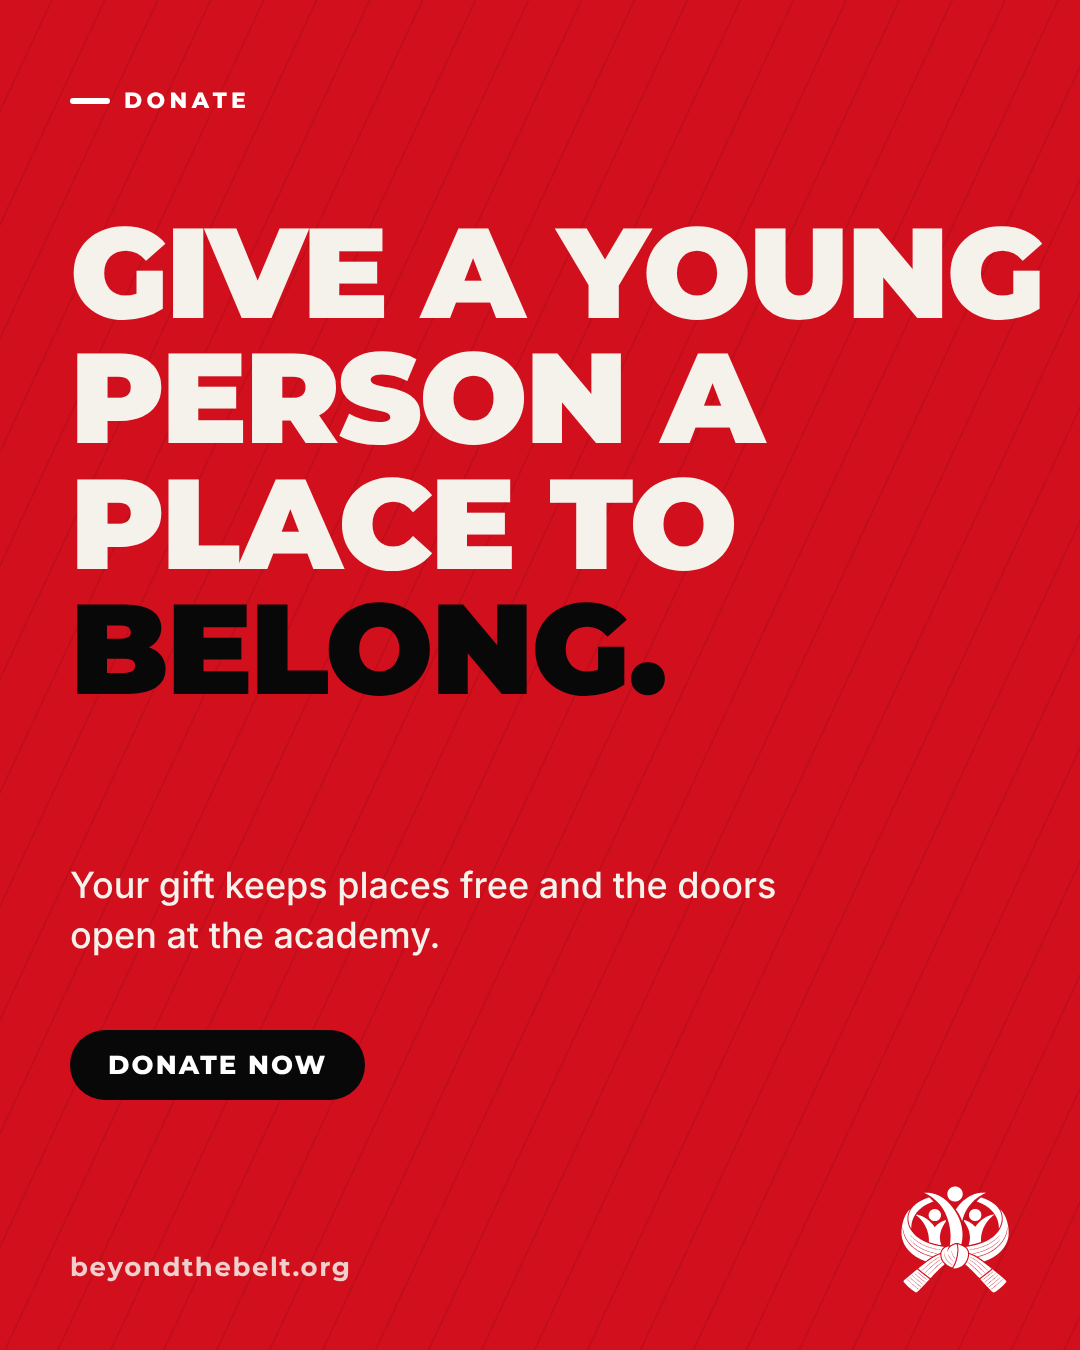
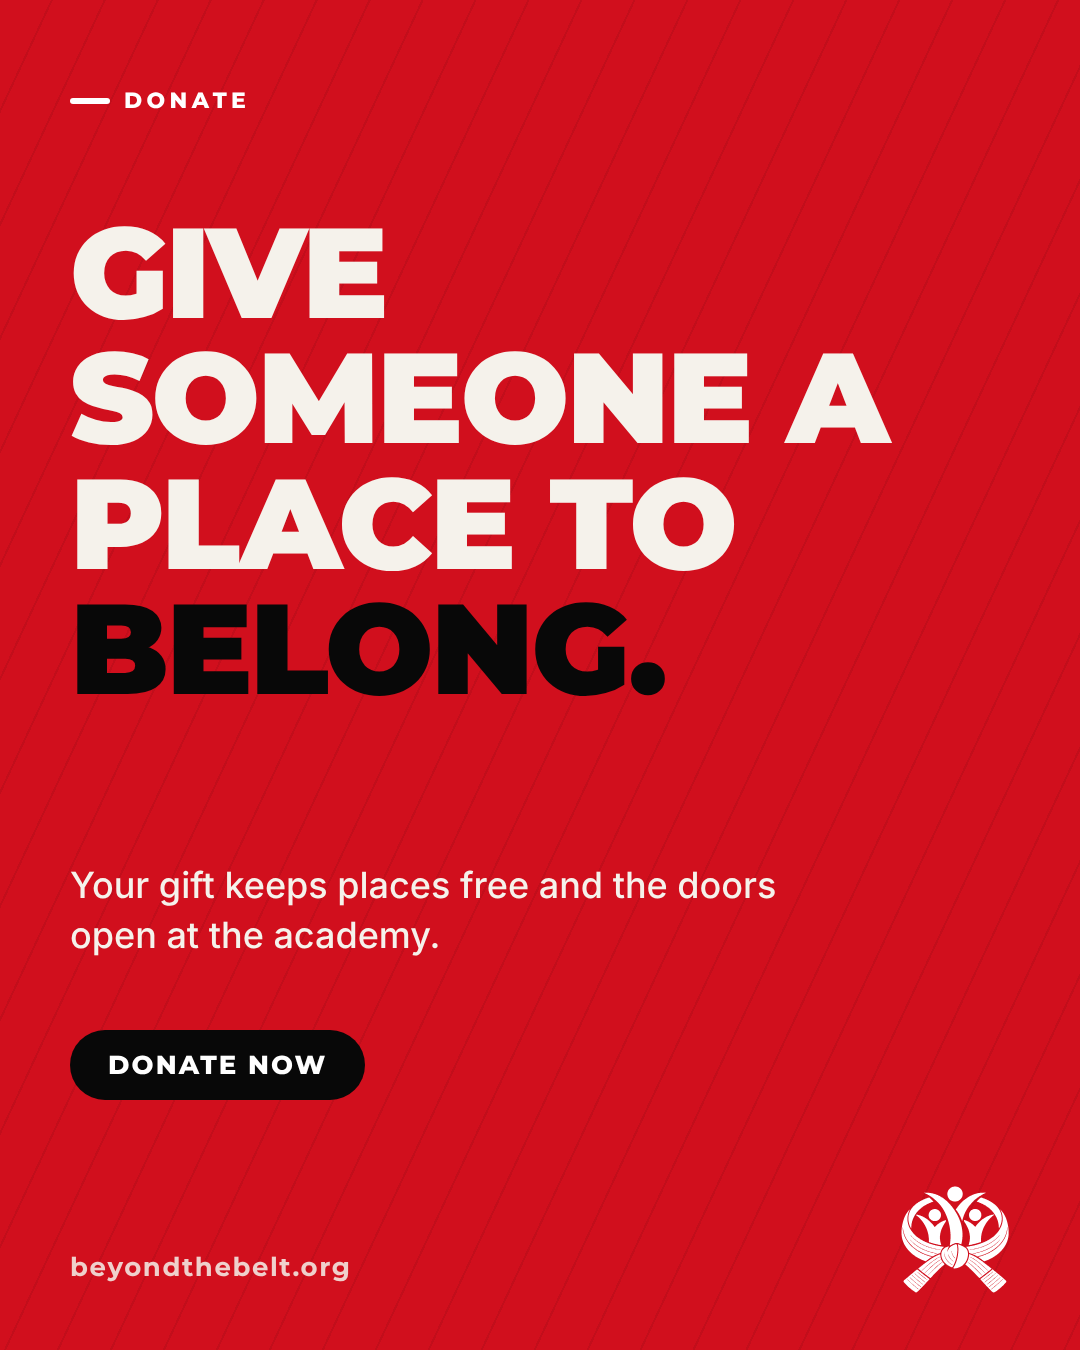
Make copy and graphics inclusive of all ages and backgrounds
Claude-Session: https://claude.ai/code/session_01BxUCDy4vFvZAv95Lyd49Mm

Changed region(s): [[0.0611, 0.1556, 0.9778, 0.3422]]

diff --git a/index.html b/index.html
@@ -4,7 +4,7 @@
   <meta charset="utf-8">
   <meta name="viewport" content="width=device-width, initial-scale=1">
   <title>Beyond the Belt | A charity built on the mats</title>
-  <meta name="description" content="Beyond the Belt is a charity set up by Paul Busby and members of RGA Academy in Marlow, using martial arts training, mentoring and community to build confidence and resilience in young people.">
+  <meta name="description" content="Beyond the Belt is a charity set up by Paul Busby and members of RGA Academy in Marlow, using martial arts training, mentoring and community to build confidence and resilience in people of all ages and backgrounds.">
   <meta name="theme-color" content="#080808">
   <link rel="canonical" href="https://beyondthebelt.org/">
   <link rel="icon" href="assets/favicon.svg" type="image/svg+xml">
@@ -30,7 +30,7 @@
     "name": "Beyond the Belt",
     "url": "https://beyondthebelt.org/",
     "logo": "https://beyondthebelt.org/assets/apple-touch-icon.png",
-    "description": "A charity set up by Paul Busby and members of RGA Academy in Marlow, using martial arts training, mentoring and community to build confidence and resilience in young people.",
+    "description": "A charity set up by Paul Busby and members of RGA Academy in Marlow, using martial arts training, mentoring and community to build confidence and resilience in people of all ages and backgrounds.",
     "founder": { "@type": "Person", "name": "Paul Busby" },
     "address": { "@type": "PostalAddress", "addressLocality": "Marlow", "addressRegion": "Buckinghamshire", "addressCountry": "GB" }
   }
@@ -65,7 +65,7 @@
         <div>
           <span class="eyebrow">A charity built on the mats</span>
           <h1>Life is bigger <em>than the belt.</em></h1>
-          <p class="lede">Beyond the Belt is a charity set up by Paul Busby and members of RGA Academy in Marlow. We use training, mentoring and a strong community to help young people build confidence, resilience and a sense of belonging, on the mats and far beyond them.</p>
+          <p class="lede">Beyond the Belt is a charity set up by Paul Busby and members of RGA Academy in Marlow. We use training, mentoring and a strong community to help people of every age and background build confidence, resilience and a sense of belonging, on the mats and far beyond them.</p>
           <div class="hero-actions">
             <a class="btn btn-primary" href="#donate">Donate</a>
             <a class="btn btn-ghost" href="#get-involved">Get involved</a>
@@ -89,7 +89,7 @@
         </div>
         <div class="mission-copy">
           <p>Martial arts teach far more than technique. Turning up when it is hard, losing and trying again, trusting a training partner and being trusted back: those lessons stay with you long after the grading.</p>
-          <p>Beyond the Belt exists so that every young person who could benefit from that experience can have it, whatever their circumstances or whether their family can afford the fees.</p>
+          <p>Beyond the Belt exists so that anyone who could benefit from that experience can have it, whatever their age or background and whether or not they can afford the fees.</p>
           <p>Our sessions are led by experienced coaches in the welcoming environment of RGA Academy, where it all started.</p>
         </div>
       </div>
@@ -110,23 +110,23 @@
         <div class="section-head">
           <span class="eyebrow">What we do</span>
           <h2>Training with a purpose</h2>
-          <p>Every programme is built around the same idea: use the discipline and community of martial arts to help young people thrive.</p>
+          <p>Every programme is built around the same idea: use the discipline and community of martial arts to help people of all ages thrive.</p>
         </div>
         <div class="cards">
           <article class="card">
             <div class="num">01</div>
             <h3>Free &amp; supported places</h3>
-            <p>Funded places in regular classes, including kit and gradings, for young people who would otherwise miss out.</p>
+            <p>Funded places in regular classes, including kit and gradings, for children, adults and families who would otherwise miss out.</p>
           </article>
           <article class="card">
             <div class="num">02</div>
             <h3>Confidence &amp; resilience</h3>
-            <p>Mentoring woven into training, helping young people handle pressure, setbacks and big emotions in a healthy way.</p>
+            <p>Mentoring woven into training, helping people of any age handle pressure, setbacks and big emotions in a healthy way.</p>
           </article>
           <article class="card">
             <div class="num">03</div>
             <h3>Workshops &amp; outreach</h3>
-            <p>Taster sessions and anti-bullying and personal-safety workshops for schools, youth groups and community partners.</p>
+            <p>Taster sessions and anti-bullying and personal-safety workshops for schools, workplaces, community groups and charities.</p>
           </article>
           <article class="card">
             <div class="num">04</div>
@@ -142,7 +142,7 @@
         <div class="section-head">
           <span class="eyebrow">The pathway</span>
           <h2>From first class to giving back</h2>
-          <p>Progress is not only measured in stripes. We support each young person along a path that ends with them helping the next one through the door.</p>
+          <p>Progress is not only measured in stripes. We support each person along a path that ends with them helping the next one through the door.</p>
         </div>
         <ol class="steps">
           <li class="step"><div class="bar"></div><h3>Show up</h3><p>A warm welcome, no experience needed and no pressure. The hardest step is walking in.</p></li>
@@ -158,7 +158,7 @@
         <div class="section-head">
           <span class="eyebrow">Get involved</span>
           <h2>Help us go beyond</h2>
-          <p>We are a small charity with big ambitions. However you choose to help, it makes a real difference to the young people we work with.</p>
+          <p>We are a small charity with big ambitions. However you choose to help, it makes a real difference to the people we work with.</p>
         </div>
         <div class="cards">
           <article class="card feature">
@@ -173,15 +173,15 @@
           </article>
           <article class="card">
             <h3>Partner with us</h3>
-            <p>Schools, youth services and local businesses: let's work together to reach more young people.</p>
+            <p>Schools, community groups and local businesses: let's work together to reach more people.</p>
             <a class="btn btn-dark" href="#contact">Start a conversation</a>
           </article>
         </div>
 
         <div class="donate-panel" id="donate">
           <div>
-            <h3>Back the next generation</h3>
-            <p>Your support funds places, equipment and mentoring for young people who need a place to belong.</p>
+            <h3>Back the whole community</h3>
+            <p>Your support funds places, equipment and mentoring for people of all ages who need a place to belong.</p>
           </div>
           <!-- TODO: replace href with the live donation page (JustGiving, Stripe, GoFundMe, etc.) -->
           <a class="btn" href="#contact" data-donate-link>Donate now</a>
@@ -196,7 +196,7 @@
         <div>
           <span class="eyebrow">Our story</span>
           <h2>Born at RGA Academy</h2>
-          <p>Beyond the Belt was set up by Paul Busby and members of RGA Academy in Marlow. They are coaches, students, parents and friends who have seen first-hand what time on the mats can do for a young person.</p>
+          <p>Beyond the Belt was set up by Paul Busby and members of RGA Academy in Marlow. They are coaches, students, parents and friends who have seen first-hand what time on the mats can do for a person of any age.</p>
           <p>The charity lets them take that further, opening the door to people who need it most and backing it with structure and care.</p>
           <p class="pull">Two figures, one belt, and a path that leads well beyond the dojo.</p>
         </div>
@@ -208,7 +208,7 @@
         <div>
           <span class="eyebrow">Contact</span>
           <h2>Say hello</h2>
-          <p>Want to refer a young person, volunteer, fundraise or partner with us? Send us a message and we will come back to you.</p>
+          <p>Want to refer someone, volunteer, fundraise or partner with us? Send us a message and we will come back to you.</p>
           <ul class="contact-list">
             <li><strong>Email</strong><a href="mailto:hello@beyondthebelt.org" data-contact-email>hello@beyondthebelt.org</a></li>
             <li><strong>Based at</strong>RGA Academy, Marlow, Buckinghamshire</li>
@@ -222,7 +222,7 @@
               <option>Make a donation</option>
               <option>Volunteer</option>
               <option>Partner with Beyond the Belt</option>
-              <option>Refer a young person</option>
+              <option>Refer someone</option>
               <option>Something else</option>
             </select>
           </label>

diff --git a/social/build.js b/social/build.js
@@ -94,7 +94,7 @@ add('post-01-welcome-1080x1350', 1080, 1350, 'ink stitch',
   `<h1 class="abs" style="left:70px;top:860px;font-size:112px">Life is bigger<br><em>than the belt.</em></h1>` + foot('dark'));
 add('post-02-donate-1080x1350', 1080, 1350, 'red stitch',
   `<div class="abs" style="left:70px;top:90px"><div class="eyebrow">Donate</div></div>` +
-  `<h1 class="abs" style="left:70px;top:210px;font-size:128px">Give a young person a place to <em>belong.</em></h1>` +
+  `<h1 class="abs" style="left:70px;top:210px;font-size:128px">Give someone a place to <em>belong.</em></h1>` +
   `<p class="abs" style="left:70px;top:860px;width:800px;font-size:36px;line-height:1.4;font-weight:500">Your gift keeps places free and the doors open at the academy.</p>` +
   `<div class="abs" style="left:70px;top:1030px"><span class="pill">Donate now</span></div>` + foot());
 add('post-03-values-1080x1350', 1080, 1350, 'ink stitch',
@@ -103,7 +103,7 @@ add('post-03-values-1080x1350', 1080, 1350, 'ink stitch',
 add('post-04-volunteer-1080x1350', 1080, 1350, 'bone stitch',
   `<div class="abs" style="left:70px;top:90px"><div class="eyebrow" style="color:var(--deep)">Get involved</div></div>` +
   `<h1 class="abs" style="left:70px;top:210px;font-size:150px">We need you <em style="color:var(--deep)">on the mats.</em></h1>` +
-  `<p class="abs" style="left:70px;top:800px;width:880px;font-size:38px;line-height:1.4;font-weight:500">Coaches, helpers, fundraisers, creatives. Bring your skills and help us reach more young people.</p>` +
+  `<p class="abs" style="left:70px;top:800px;width:880px;font-size:38px;line-height:1.4;font-weight:500">Coaches, helpers, fundraisers, creatives. Bring your skills and help us reach more people.</p>` +
   `<div class="abs" style="left:70px;top:1030px"><span class="pill">Join the team</span></div>` + foot('dark').replace('markDark', '').replace(/src="[^"]*"/, `src="${logo.mark}"`));
 add('template-quote-1080x1350', 1080, 1350, 'ink stitch',
   `<div class="abs m" style="left:60px;top:40px;font-size:420px;color:var(--red);line-height:1">“</div>` +
@@ -121,7 +121,7 @@ add('story-01-welcome-1080x1920', 1080, 1920, 'ink stitch',
   `<h1 class="abs" style="left:70px;top:1260px;font-size:104px">Life is bigger <em>than the belt.</em></h1>`);
 add('story-02-donate-1080x1920', 1080, 1920, 'red stitch',
   img(logo.markWhite, 'left:340px;top:300px;width:400px') +
-  `<h1 class="abs" style="left:70px;top:760px;font-size:106px">Give a young person a place to <em>belong.</em></h1>` +
+  `<h1 class="abs" style="left:70px;top:760px;font-size:106px">Give someone a place to <em>belong.</em></h1>` +
   `<div class="abs" style="left:70px;top:1380px"><span class="pill">Donate · link in bio</span></div>`);
 add('story-03-event-template-1080x1920', 1080, 1920, 'ink stitch',
   `<div class="abs" style="left:70px;top:300px"><div class="eyebrow">Save the date</div></div>` +

diff --git a/BRAND.md b/BRAND.md
@@ -28,7 +28,7 @@ Keep clear space around the logo equal to the height of the red head. Don't stre
 Both are open-source (SIL OFL) and self-hosted in `fonts/`.
 
 ## Voice
-Warm, direct and proud. Short sentences. Talk about young people and community, not charity jargon. Signature line: **"Life is bigger than the belt."**
+Warm, direct and proud. Short sentences. Speak to people of all ages and backgrounds, and talk about community rather than charity jargon. Signature line: **"Life is bigger than the belt."**
 
 ## Social image sizes
 | File | Platform |
